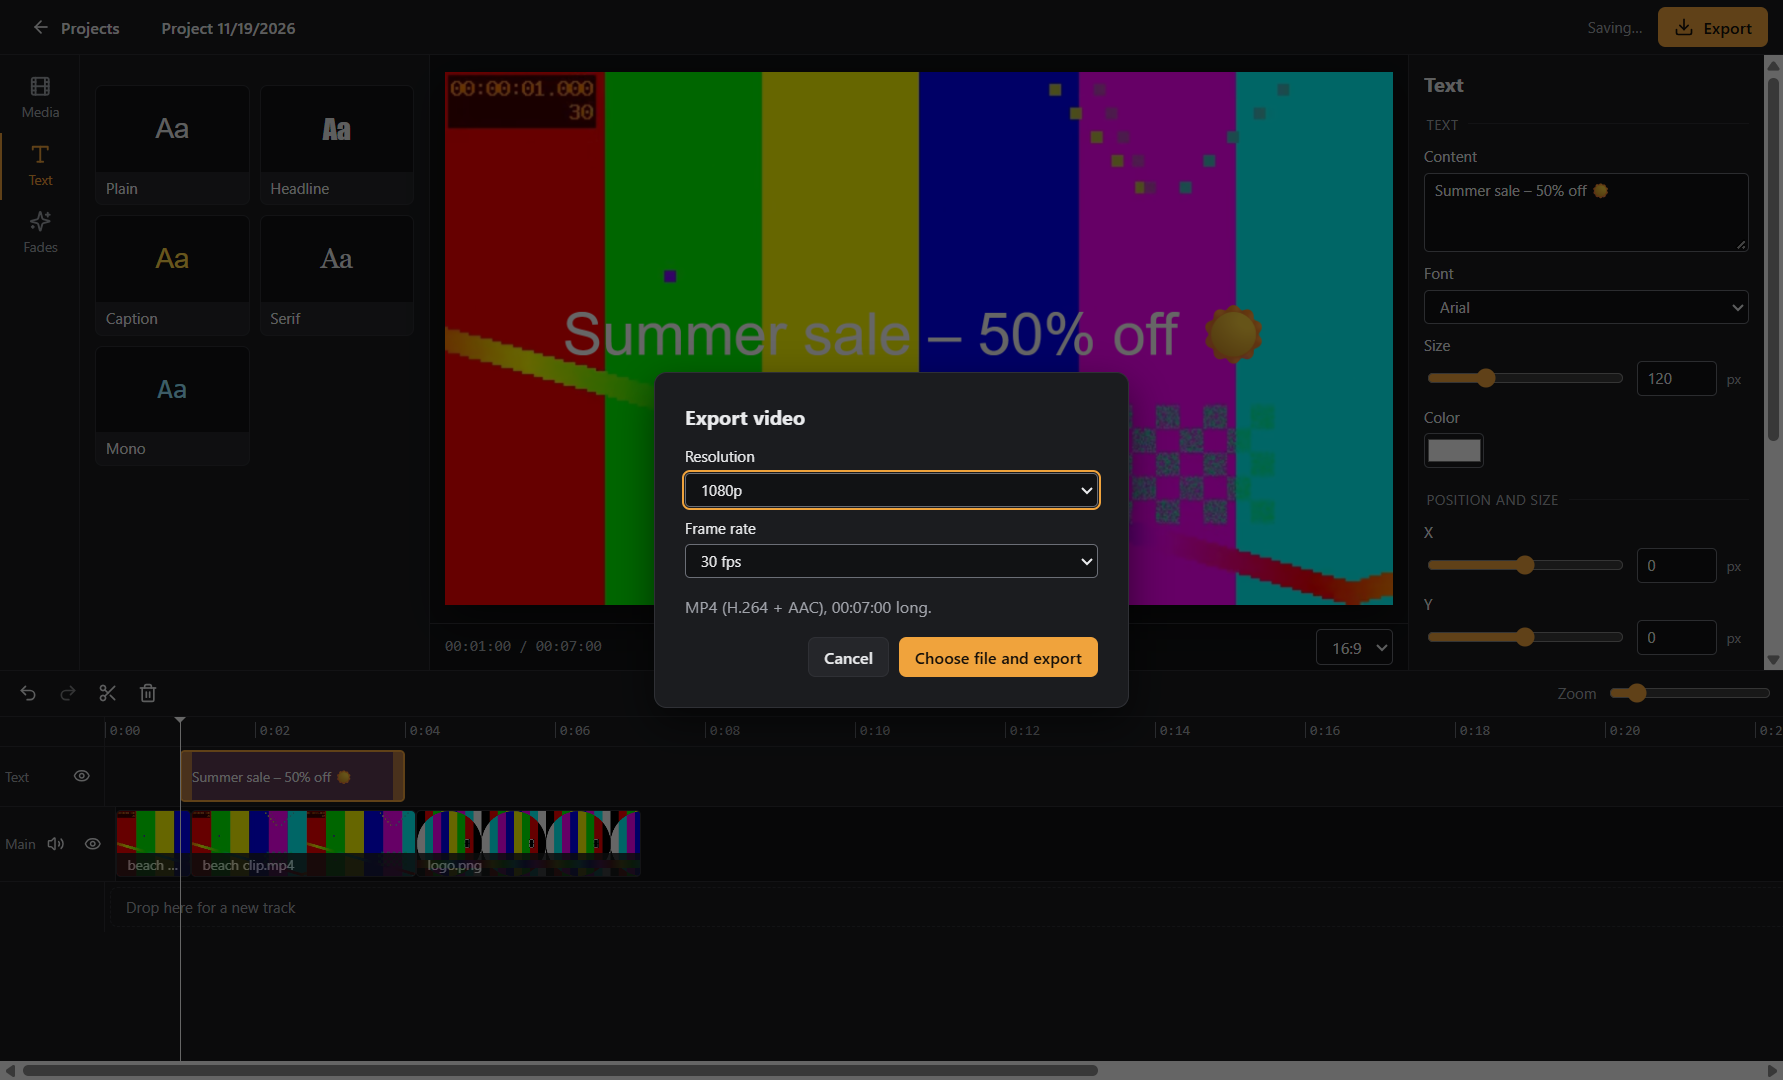
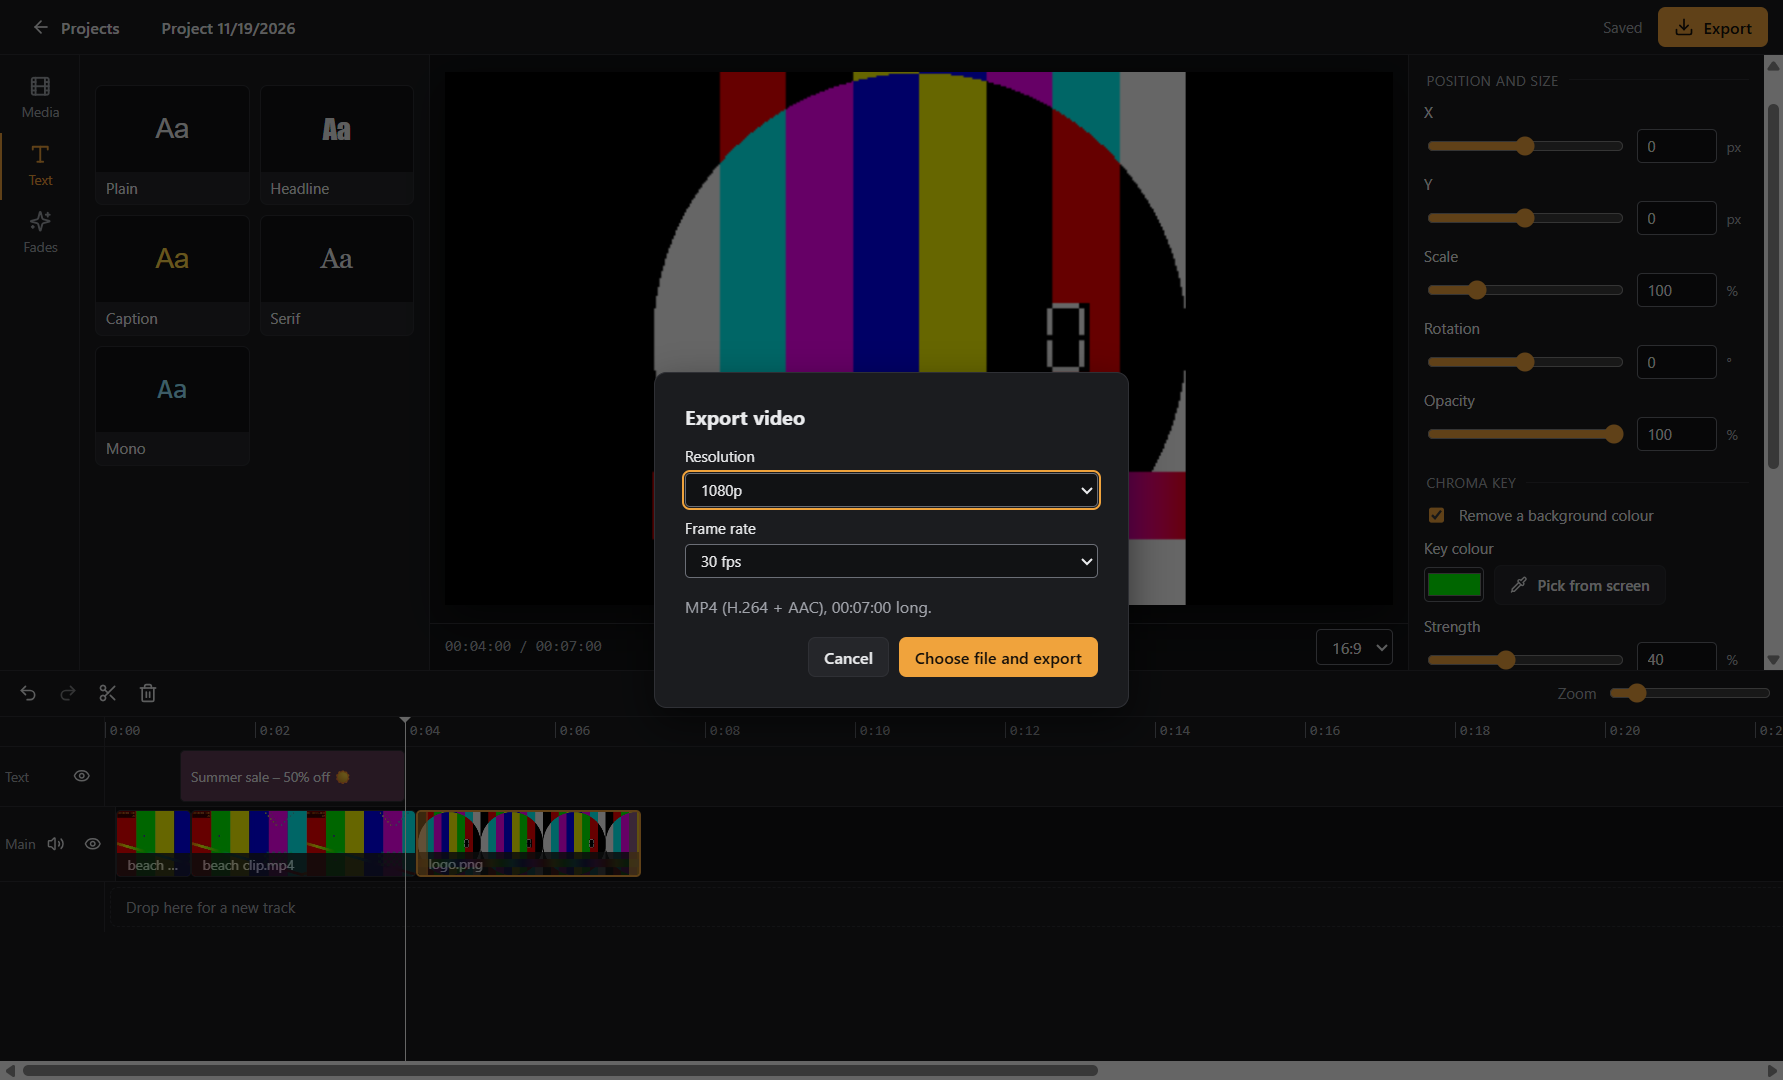
feat: chroma key (colorkey export + matching preview, eyedropper)

diff --git a/src/renderer/src/Editor.tsx b/src/renderer/src/Editor.tsx
@@ -1,6 +1,6 @@
 import { useEffect, useRef, useState } from 'react'
-import { ArrowLeft, Download, Film, Image as ImageIcon, Music, Plus, Sparkles, Type, Upload } from 'lucide-react'
-import type { Clip, MediaAsset, Project } from '../../shared/schema'
+import { ArrowLeft, Download, Film, Image as ImageIcon, Music, Pipette, Plus, Sparkles, Type, Upload } from 'lucide-react'
+import type { ChromaKey, Clip, MediaAsset, MediaClip, Project } from '../../shared/schema'
 import { FONTS, assetOf, locate, mediaClip, place, projectDuration, setSpeed, textClip, timecode } from '../../shared/ops'
 import { Player } from './Player'
 import { Timeline } from './Timeline'
@@ -356,12 +356,70 @@ function Inspector() {
           )}
         </fieldset>
       )}
+      {c.type === 'media' && a?.kind !== 'audio' && <ChromaKeyFields clip={c} />}
       <fieldset>
         <legend>Fades</legend>
         <NumberSlider label="Fade in" value={c.fadeIn} min={0} max={half} step={0.05} unit="s" onChange={(v) => upd('fi', (x) => void (x.fadeIn = v))} />
         <NumberSlider label="Fade out" value={c.fadeOut} min={0} max={half} step={0.05} unit="s" onChange={(v) => upd('fo', (x) => void (x.fadeOut = v))} />
       </fieldset>
     </aside>
+  )
+}
+
+function ChromaKeyFields({ clip: c }: { clip: MediaClip }) {
+  const commit = useEditor((s) => s.commit)
+  const toast = useEditor((s) => s.toast)
+  const upd = (key: string, fn: (ck: ChromaKey, x: MediaClip) => void) =>
+    commit((d) => {
+      const x = locate(d, c.id)!.clip as MediaClip
+      if (x.chromaKey) fn(x.chromaKey, x)
+    }, c.id + key)
+  const ck = c.chromaKey
+  const pick = async () => {
+    try {
+      // Chromium's built-in eyedropper: click anywhere on screen, e.g. the green in the preview
+      const r = await new (window as unknown as { EyeDropper: new () => { open: () => Promise<{ sRGBHex: string }> } }).EyeDropper().open()
+      upd('ckc', (k) => void (k.color = r.sRGBHex))
+    } catch (e) {
+      if ((e as Error).name !== 'AbortError') toast(`Couldn't pick a colour: ${(e as Error).message}`, 'error')
+    }
+  }
+  return (
+    <fieldset>
+      <legend>Chroma key</legend>
+      <label className="check">
+        <input
+          type="checkbox"
+          checked={!!ck}
+          onChange={(e) =>
+            commit((d) => {
+              const x = locate(d, c.id)!.clip as MediaClip
+              if (e.target.checked) x.chromaKey = { color: '#00ff00', similarity: 0.3, blend: 0.1 }
+              else delete x.chromaKey
+            })
+          }
+        />
+        Remove a background colour
+      </label>
+      {ck && (
+        <>
+          <Field label="Key colour">
+            {(id) => (
+              <div className="inline">
+                <input id={id} type="color" value={ck.color} onChange={(e) => upd('ckc', (k) => void (k.color = e.target.value))} />
+                {'EyeDropper' in window && (
+                  <Button onClick={pick}>
+                    <Pipette size={14} aria-hidden /> Pick from screen
+                  </Button>
+                )}
+              </div>
+            )}
+          </Field>
+          <NumberSlider label="Strength" value={ck.similarity} min={1} max={100} scale={100} unit="%" onChange={(v) => upd('cks', (k) => void (k.similarity = v))} />
+          <NumberSlider label="Softness" value={ck.blend} min={0} max={100} scale={100} unit="%" onChange={(v) => upd('ckb', (k) => void (k.blend = v))} />
+        </>
+      )}
+    </fieldset>
   )
 }
 

diff --git a/src/renderer/src/Player.tsx b/src/renderer/src/Player.tsx
@@ -1,7 +1,7 @@
 import { useEffect, useRef } from 'react'
 import { Pause, Play } from 'lucide-react'
-import type { Clip, Transform } from '../../shared/schema'
-import { ASPECTS, clipEnd, fadeFactor, projectDuration, timecode } from '../../shared/ops'
+import type { ChromaKey, Clip, Transform } from '../../shared/schema'
+import { ASPECTS, clipEnd, fadeFactor, hexRgb, keyAlpha, projectDuration, timecode } from '../../shared/ops'
 import { mediaUrl, useEditor } from './store'
 import { Button } from './ui'
 
@@ -17,6 +17,7 @@ export function Player() {
   useEffect(() => {
     const videos = new Map<string, HTMLVideoElement>() // one element per clip
     const images = new Map<string, HTMLImageElement>() // per asset
+    const off = document.createElement('canvas') // scratch canvas for chroma keying
     let raf = 0
     let prev = performance.now()
 
@@ -51,7 +52,23 @@ export function Player() {
         ctx.drawImage(src, (-iw * k) / 2, (-ih * k) / 2, iw * k, ih * k)
         ctx.restore()
       }
-      const drawText = (c: Extract<Clip, { type: 'text' }>, alpha: number) => {
+      // shortcut: keys at max 640px wide on the CPU; move to a WebGL shader if keyed 1080p preview stutters
+      const keyed = (src: CanvasImageSource, iw: number, ih: number, ck: ChromaKey) => {
+        const s = Math.min(1, 640 / iw)
+        const w = Math.max(1, Math.round(iw * s))
+        const h = Math.max(1, Math.round(ih * s))
+        if (off.width !== w || off.height !== h) Object.assign(off, { width: w, height: h })
+        const o = off.getContext('2d', { willReadFrequently: true })!
+        o.clearRect(0, 0, w, h)
+        o.drawImage(src, 0, 0, w, h)
+        const img = o.getImageData(0, 0, w, h)
+        const d = img.data
+        const k = hexRgb(ck.color)
+        for (let i = 0; i < d.length; i += 4) d[i + 3] = Math.round(keyAlpha(d[i], d[i + 1], d[i + 2], k, ck.similarity, ck.blend) * 255)
+        o.putImageData(img, 0, 0)
+        return off
+      }
+      const drawText =(c: Extract<Clip, { type: 'text' }>, alpha: number) => {
         const size = c.size * c.transform.scale
         const lines = c.text.split('\n')
         ctx.save()
@@ -82,7 +99,10 @@ export function Player() {
           if (a.kind === 'image') {
             let img = images.get(a.id)
             if (!img) images.set(a.id, (img = Object.assign(new Image(), { crossOrigin: 'anonymous', src: mediaUrl(a.path) })))
-            if (img.complete && img.naturalWidth && !track.hidden) draw(img, img.naturalWidth, img.naturalHeight, c.transform, fade)
+            if (img.complete && img.naturalWidth && !track.hidden) {
+              const [iw, ih] = [img.naturalWidth, img.naturalHeight]
+              draw(c.chromaKey ? keyed(img, iw, ih, c.chromaKey) : img, iw, ih, c.transform, fade)
+            }
             continue
           }
           let v = videos.get(c.id)
@@ -106,7 +126,7 @@ export function Player() {
             if (!v.seeking && Math.abs(v.currentTime - src) > 0.5 / p.fps) v.currentTime = src
           }
           if (track.kind === 'video' && !track.hidden && a.kind === 'video' && v.readyState >= 2 && v.videoWidth)
-            draw(v, v.videoWidth, v.videoHeight, c.transform, fade)
+            draw(c.chromaKey ? keyed(v, v.videoWidth, v.videoHeight, c.chromaKey) : v, v.videoWidth, v.videoHeight, c.transform, fade)
         }
       }
       for (const [id, v] of videos) {

diff --git a/tests/export.test.ts b/tests/export.test.ts
@@ -62,4 +62,35 @@ describe('export', () => {
     const size = execFileSync(ffprobe.path, ['-v', 'error', '-select_streams', 'v', '-show_entries', 'stream=width,height', '-of', 'csv=p=0', out]).toString().trim()
     expect(size).toBe('360,640')
   }, 120_000)
+
+  it('chroma key removes the green layer so the red base shows through', () => {
+    const red = join(dir, 'red.png')
+    const green = join(dir, 'green.png')
+    execFileSync(FF, ['-v', 'error', '-f', 'lavfi', '-i', 'color=c=red:s=320x180', '-frames:v', '1', '-y', red])
+    execFileSync(FF, ['-v', 'error', '-f', 'lavfi', '-i', 'color=c=0x00ff00:s=320x180', '-frames:v', '1', '-y', green])
+    const render = (keyed: boolean) => {
+      const base = newProject('k')
+      base.assets = [
+        { id: 'r', path: red, kind: 'image', duration: 0, hasAudio: false },
+        { id: 'g', path: green, kind: 'image', duration: 0, hasAudio: false }
+      ]
+      const p = produce(base, (d) => {
+        place(d, mediaClip(d.assets[0]), Infinity, d.tracks[0].id)
+        const top = mediaClip(d.assets[1], 0)
+        if (keyed) top.chromaKey = { color: '#00ff00', similarity: 0.3, blend: 0.1 }
+        place(d, top, 0)
+      })
+      const out = join(dir, `key-${keyed}.mp4`)
+      const { args } = buildExportArgs(p, { out, short: 180, fps: 30, tmpDir: dir, fontDir: '' })
+      execFileSync(FF, args.filter((a) => a !== 'pipe:1' && a !== '-progress'), { stdio: 'pipe' })
+      // average colour of the first frame as 3 bytes
+      return [...execFileSync(FF, ['-v', 'error', '-i', out, '-frames:v', '1', '-vf', 'scale=1:1', '-f', 'rawvideo', '-pix_fmt', 'rgb24', '-'])]
+    }
+    const [r1, g1] = render(true)
+    expect(r1).toBeGreaterThan(200)
+    expect(g1).toBeLessThan(60)
+    const [r0, g0] = render(false)
+    expect(g0).toBeGreaterThan(200)
+    expect(r0).toBeLessThan(60)
+  }, 120_000)
 })

diff --git a/tests/ops.test.ts b/tests/ops.test.ts
@@ -1,7 +1,7 @@
 import { describe, expect, it } from 'vitest'
 import { produce } from 'immer'
 import type { MediaAsset } from '../src/shared/schema'
-import { fadeFactor, mediaClip, moveMain, newProject, place, projectDuration, remove, setSpeed, split, textClip } from '../src/shared/ops'
+import { fadeFactor, hexRgb, keyAlpha, mediaClip, moveMain, newProject, place, projectDuration, remove, setSpeed, split, textClip } from '../src/shared/ops'
 
 const vid = (id: string, duration: number): MediaAsset => ({ id, path: `C:/${id}.mp4`, kind: 'video', duration, hasAudio: true })
 const aud: MediaAsset = { id: 'a', path: 'C:/a.mp3', kind: 'audio', duration: 10, hasAudio: true }
@@ -73,5 +73,18 @@ describe('timeline ops', () => {
     expect(fadeFactor(c, 0.5)).toBe(0.5)
     expect(fadeFactor(c, 2)).toBe(1)
     expect(fadeFactor(c, 3)).toBe(0.5)
+  })
+})
+
+describe('chroma key alpha (matches ffmpeg colorkey)', () => {
+  const g = hexRgb('#00ff00')
+  it('removes the key colour, keeps far colours, blends the edge', () => {
+    expect(g).toEqual([0, 255, 0])
+    expect(keyAlpha(0, 255, 0, g, 0.3, 0.1)).toBe(0)
+    expect(keyAlpha(255, 0, 0, g, 0.3, 0.1)).toBe(1)
+    const edge = keyAlpha(0, 255 - 155, 0, g, 0.3, 0.1) // diff ~0.358: inside the blend band
+    expect(edge).toBeGreaterThan(0)
+    expect(edge).toBeLessThan(1)
+    expect(keyAlpha(0, 200, 0, g, 0.3, 0)).toBe(0) // hard edge when blend is 0
   })
 })

diff --git a/e2e/editor.spec.ts b/e2e/editor.spec.ts
@@ -103,6 +103,17 @@ test('F01 make a short video from scratch, F03 split/delete/undo', async () => {
   await a11y('S02 filled + S07 text')
   await page.screenshot({ path: 'replica/clone-screens/S07.png' })
 
+  // Chroma key on the image clip; park the playhead on it so the keyed preview path runs (fails on console errors)
+  await page.getByRole('button', { name: /^logo\.png, / }).click()
+  await page.getByLabel('Remove a background colour').check()
+  await expect(page.getByRole('slider', { name: 'Strength' })).toBeVisible()
+  await page.getByRole('spinbutton', { name: 'Strength' }).fill('40')
+  await page.locator('body').click({ position: { x: 5, y: 300 } })
+  for (let i = 0; i < 3; i++) await page.keyboard.press('Shift+ArrowRight') // 1s -> 4s, start of logo.png
+  await page.waitForTimeout(500)
+  await a11y('S07 chroma key')
+  await page.screenshot({ path: 'replica/clone-screens/S07-chroma.png' })
+
   // Export (F01 end)
   await page.getByRole('button', { name: 'Export' }).click()
   await a11y('S09 settings')

diff --git a/src/shared/ops.ts b/src/shared/ops.ts
@@ -167,6 +167,14 @@ export function snapTime(t: number, candidates: number[], threshold: number) {
   return best
 }
 
+export const hexRgb = (hex: string) => [1, 3, 5].map((i) => parseInt(hex.slice(i, i + 2), 16))
+
+// Alpha 0..1 for one pixel. Same formula as ffmpeg's colorkey filter (export), so the preview matches the file.
+export function keyAlpha(r: number, g: number, b: number, [kr, kg, kb]: number[], similarity: number, blend: number) {
+  const diff = Math.sqrt(((r - kr) ** 2 + (g - kg) ** 2 + (b - kb) ** 2) / (3 * 255 * 255))
+  return blend > 0.0001 ? clamp((diff - similarity) / blend, 0, 1) : diff > similarity ? 1 : 0
+}
+
 // 0..1 multiplier for picture opacity and volume at `local` seconds into the clip.
 export function fadeFactor(c: Clip, local: number) {
   let f = 1

diff --git a/src/renderer/src/styles.css b/src/renderer/src/styles.css
@@ -110,6 +110,9 @@ legend { color: var(--c-text-muted); font-size: var(--fs-xs); text-transform: up
 .field { display: flex; flex-direction: column; gap: var(--sp-1); margin-bottom: var(--sp-2); font-size: var(--fs-sm); }
 .field-row { display: grid; grid-template-columns: 1fr 64px 18px; gap: var(--sp-2); align-items: center; }
 .unit { color: var(--c-text-muted); font-size: var(--fs-xs); }
+.check { display: flex; align-items: center; gap: var(--sp-2); margin-bottom: var(--sp-2); font-size: var(--fs-sm); cursor: pointer; }
+.check input { accent-color: var(--c-accent); }
+.inline { display: flex; align-items: center; gap: var(--sp-2); }
 progress { width: 100%; height: 8px; accent-color: var(--c-accent); }
 
 /* Timeline (S08) */

diff --git a/src/main/exportArgs.ts b/src/main/exportArgs.ts
@@ -73,6 +73,9 @@ export function buildExportArgs(p: Project, o: ExportOptions) {
           `scale=w=${Math.round(W * n(t.scale))}:h=${Math.round(H * n(t.scale))}:force_original_aspect_ratio=decrease`,
           'format=rgba'
         ]
+        const ck = c.chromaKey
+        if (ck && /^#[0-9a-f]{6}$/i.test(ck.color))
+          f.push(`colorkey=color=0x${ck.color.slice(1)}:similarity=${Math.max(0.00001, n(ck.similarity))}:blend=${n(ck.blend)}`)
         if (t.rotation) {
           const rad = n((t.rotation * Math.PI) / 180)
           f.push(`rotate=${rad}:ow=rotw(${rad}):oh=roth(${rad}):c=none`)

diff --git a/src/shared/schema.ts b/src/shared/schema.ts
@@ -59,6 +59,13 @@ export interface MediaClip extends ClipBase {
   in: number // source seconds
   speed: number // 0.5..4
   volume: number // 0..2
+  chromaKey?: ChromaKey // video and image clips only
+}
+
+export interface ChromaKey {
+  color: string // #rrggbb, the background colour to remove
+  similarity: number // 0.01..1, how close a pixel must be to count as background
+  blend: number // 0..1, soft edge width
 }
 
 export interface TextClip extends ClipBase {

diff --git a/replica/fixes.md b/replica/fixes.md
@@ -41,7 +41,7 @@ Counts below are keyword matches I checked by reading the hits; `feedback.md` ha
 | 1 | Every feature free; no Pro tier, watermark or export lock | S | - | **done** (by design) | paywall 47/2 sources; export lock 3; watermark 2 |
 | 2 | Work can't be lost: local project files, autosave, atomic write + .bak | S | - | **done** | lost work 2 (thin) |
 | 3 | No account, network, ads or notifications | S | - | **done** | AI/redesign 17 (thin); ads 9/2 sources |
-| 4 | Chroma key (ffmpeg `chromakey` in export; WebGL or pixel pass in preview) | M | /replica-build | not started | 8 reviews (thin) |
+| 4 | Chroma key (ffmpeg `colorkey` in export; same formula in preview, CPU pass) | M | /replica-build | **done** | 8 reviews (thin) |
 | 5 | Stay fast on big files: proxy previews for 4K/HEVC | M | /replica-build | not started | lag/crash 14; bugs 32/2 sources |
 | 6 | Keep the e2e suite green before every release | S | /replica-test | **done** (in place) | bugs 32/2 sources |
 
